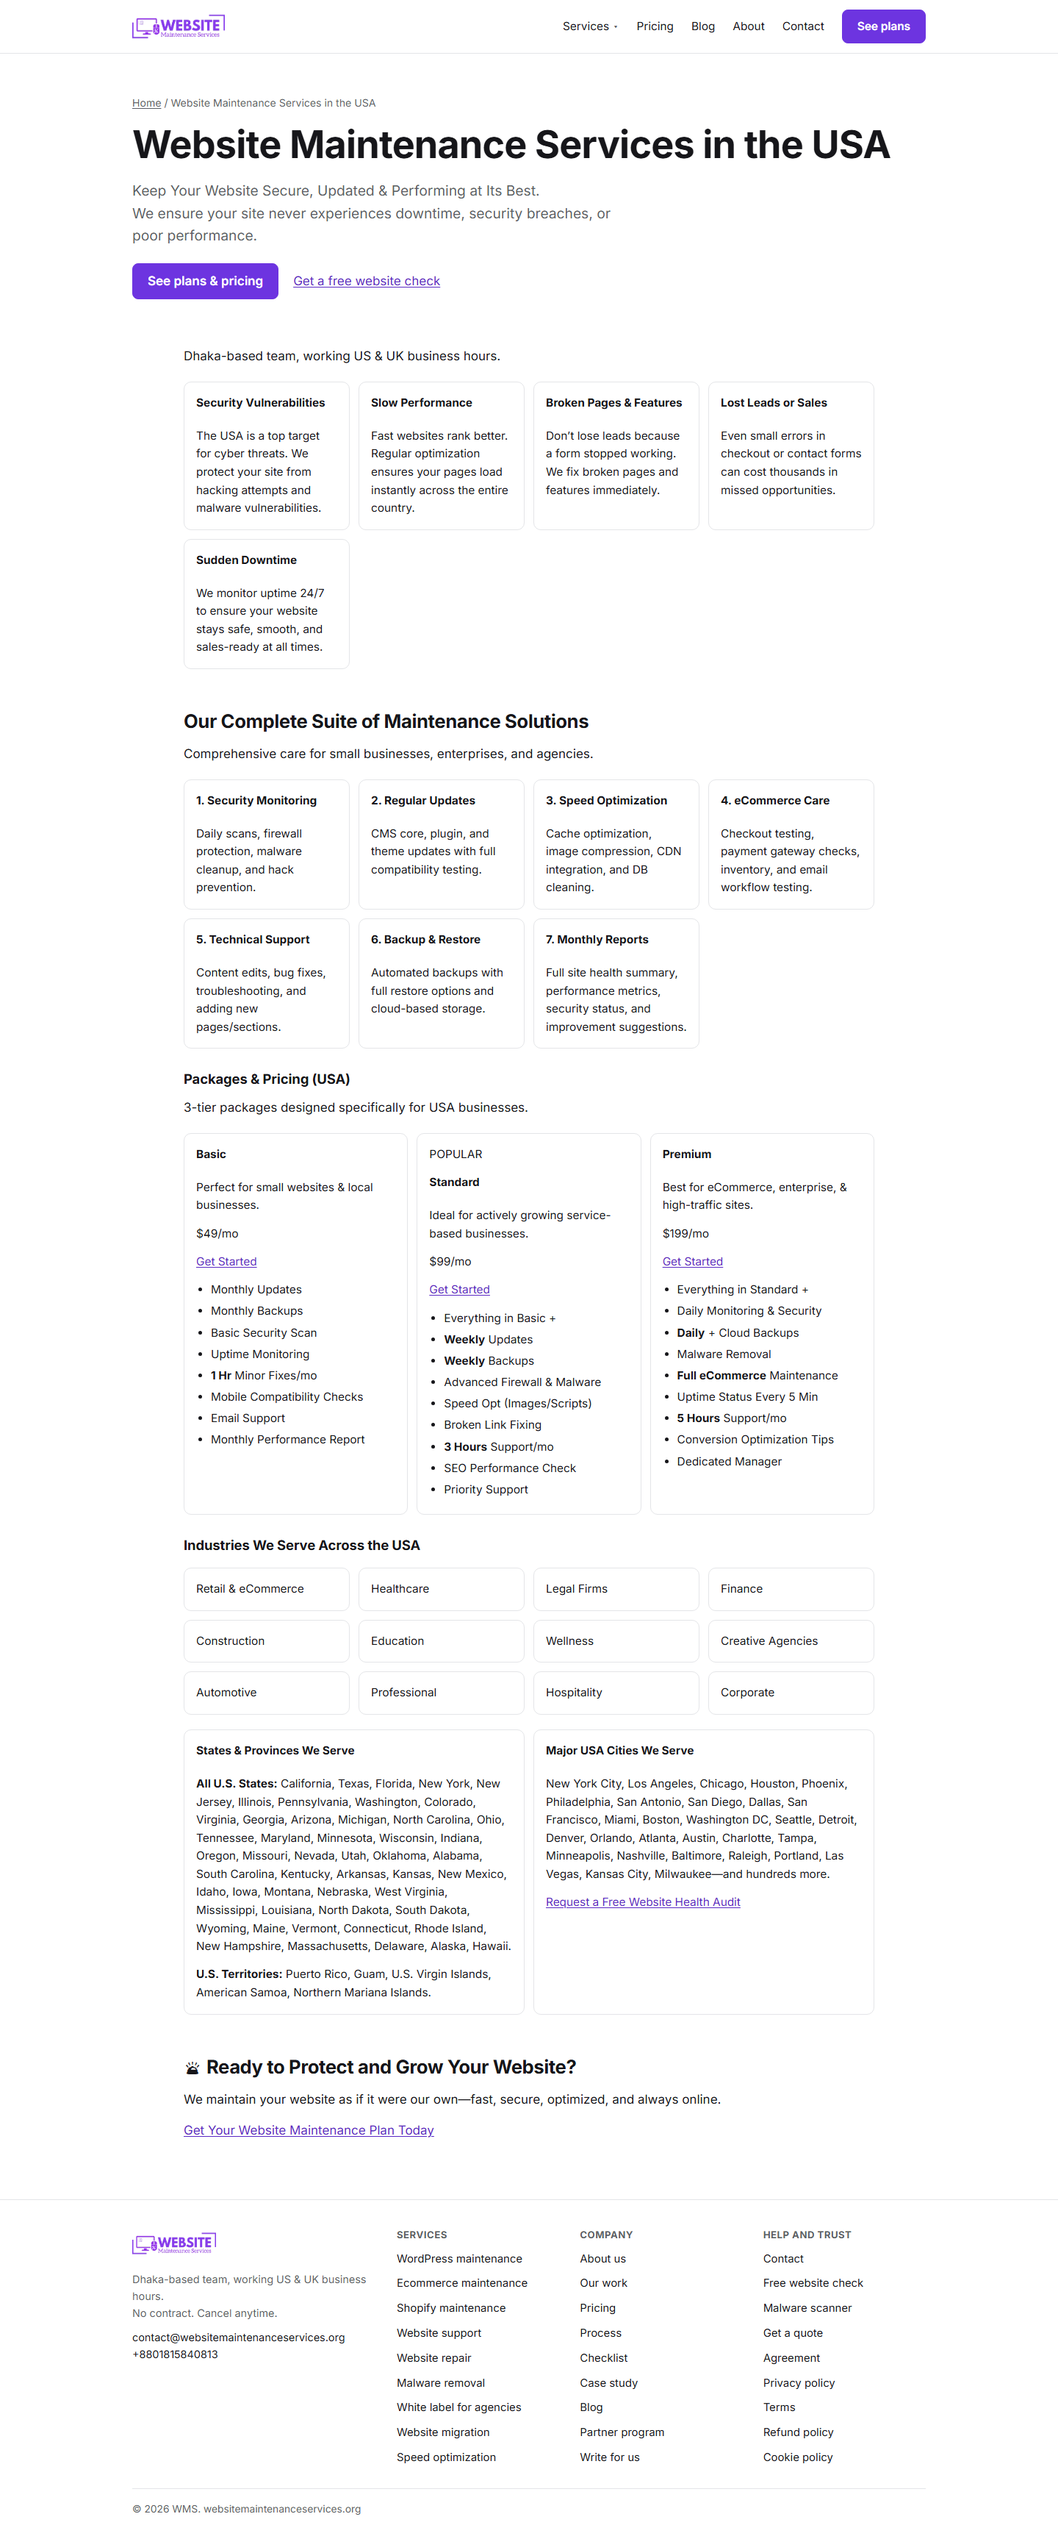
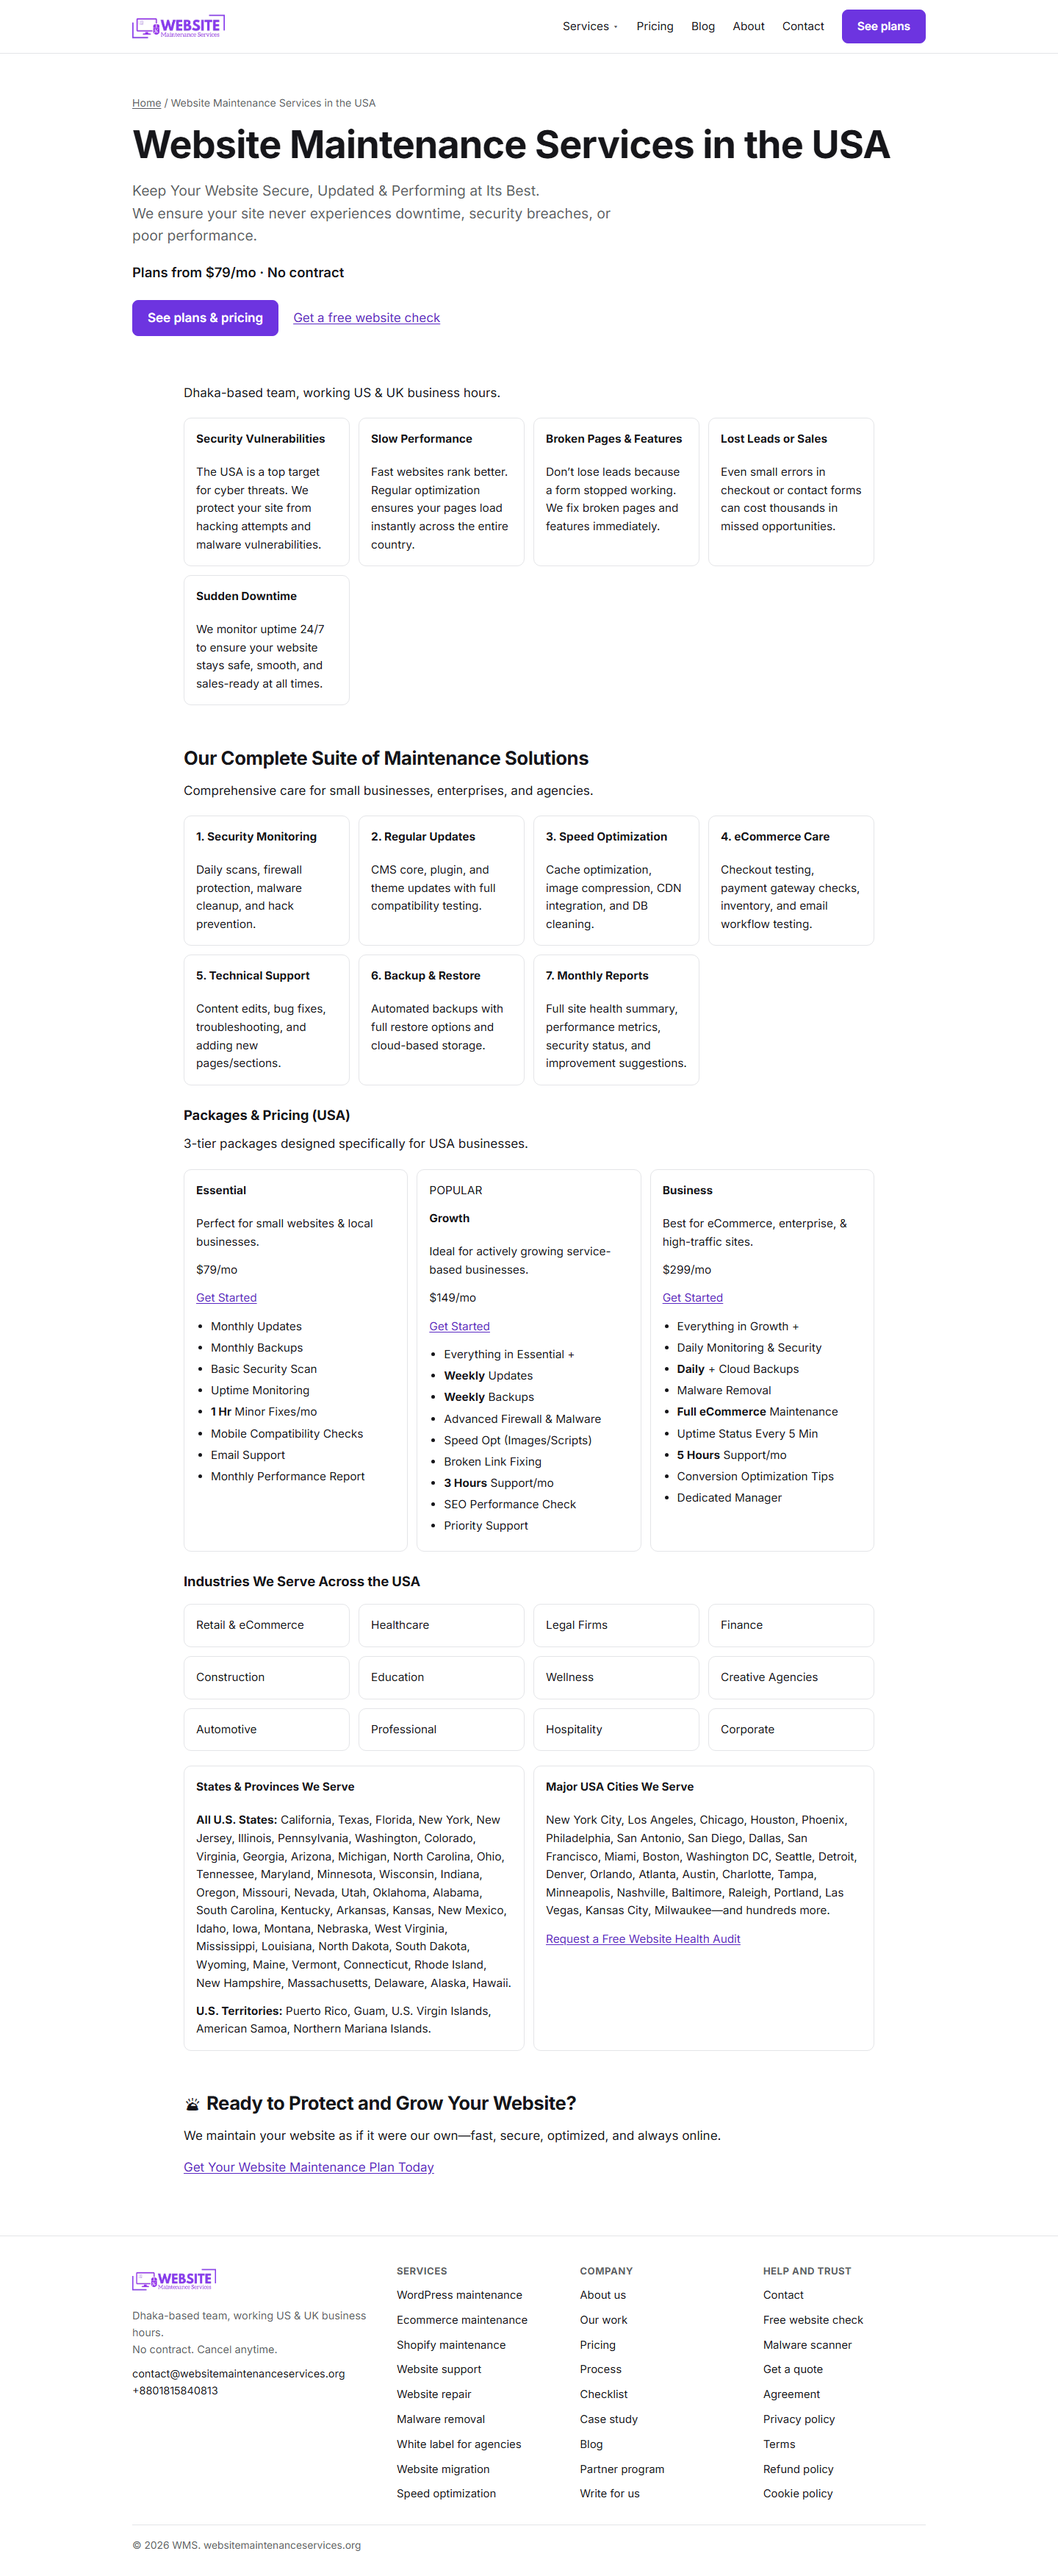
USA page: master prices and plan names; drop dollar price line from UK, France, Ireland

diff --git a/STATUS.md b/STATUS.md
@@ -21,7 +21,7 @@ Rules live in `CLAUDE.md` (wins on conflict), `SEO-GUARDRAILS.md`, `CMS-REQUIREM
 | 7 Launch, 8 Monitoring | Not started | |
 
 **Not done in Phase 4 yet:**
-- Master prices are on the homepage, pricing, WordPress packages, Netherlands, Spain and Switzerland. 122 lines on 10 pages still show old plan prices (`reports/old-price-lines.md`, run `node scripts/list-old-prices.mjs`). Ecommerce, Shopify, USA and the other sets wait for question 11. Launch stays blocked until these are settled.
+- Master prices are on the homepage, pricing, WordPress packages, USA, Netherlands, Spain and Switzerland. 122 lines on 10 pages still show old plan prices (`reports/old-price-lines.md`, run `node scripts/list-old-prices.mjs`). Ecommerce, Shopify, USA and the other sets wait for question 11. Launch stays blocked until these are settled.
 - Moving unique content from the 4 merged pages to their targets.
 - Keyword edits inside page bodies, and expanding the homepage and packages page.
 - Rearranging service pages (problem, included, price, FAQ): first screen is new, the rest keeps its old order.
@@ -84,7 +84,7 @@ Rules live in `CLAUDE.md` (wins on conflict), `SEO-GUARDRAILS.md`, `CMS-REQUIREM
 8. **Items outside section A** (`reports/claims-open-items.md`): result figures, repair stats, agency case cards, certifications, platform badges, free hosting and free month offers, people and claims inside images.
 9. **Case study:** keep after confirming the facts, or rewrite or noindex.
 10. **FAQ market ranges:** change to $79–$149 and $79–$299, or keep as they are?
-11. **Other price sets** (`reports/faq-schema-sync.md`, `reports/old-price-lines.md`): Ecommerce, Shopify, update services, white-label post, repair $99–$899, backup, the USA page (Basic $49, Standard $99, Premium $199), and the plan prices inside 9 blog posts. Also plan features that no longer match Growth and Business, and the WP Starter, WP Growth and WP Premium names on the WordPress page, which now carry master prices.
+11. **Other price sets** (`reports/faq-schema-sync.md`, `reports/old-price-lines.md`): Ecommerce, Shopify, update services, white-label post, repair $99–$899, backup, UK (£39, £89, £179), France and Ireland (€49, €99, €199), and the plan prices inside 9 blog posts. Also plan features that no longer match Growth and Business, and the WP Starter, WP Growth and WP Premium names on the WordPress page, which now carry master prices.
 12. **Service package prices:** confirm each in `reports/service-package-prices.md`, including the migration and design conflicts and the four white-label points.
 13. **Semrush "wordpress maintenance" seed export:** optional, could change the WordPress primary.
 14. **Git identity:** commits use the name "WMS" and the owner's email. Change before pushing if wanted.

diff --git a/reports/old-price-lines.md b/reports/old-price-lines.md
@@ -1,9 +1,18 @@
 # Old plan prices still in page bodies
 
-122 lines on 10 pages.
+131 lines on 13 pages.
 
 | Page | Line | Text |
 |---|---|---|
+| website-maintenance-services-for-france | 144 | €49/mo |
+| website-maintenance-services-for-france | 167 | €99/mo |
+| website-maintenance-services-for-france | 190 | €199/mo |
+| website-maintenance-services-for-ireland | 144 | €49/mo |
+| website-maintenance-services-for-ireland | 167 | €99/mo |
+| website-maintenance-services-for-ireland | 190 | €199/mo |
+| website-maintenance-services-for-uk | 137 | £39/mo |
+| website-maintenance-services-for-uk | 160 | £89/mo |
+| website-maintenance-services-for-uk | 182 | £179/mo |
 | wordpress-website-maintenance-packages | 16 | Choose from three flexible WordPress maintenance plans — WP Starter, WP Growth, and WP Premium — starting at $79/month, with 2 months free when you pay annually. Every plan includes core updates, security monitoring, bac |
 | wordpress-website-maintenance-packages | 116 | Our WordPress maintenance plans scale with your business. The **WP Starter** plan ($79/mo) suits blogs and small sites, the **WP Growth** plan ($149/mo) is our most popular WordPress monthly maintenance package for growi |
 | wordpress-website-maintenance-packages | 184 | ### WP Starter |

diff --git a/src/content/pages/website-maintenance-services-for-usa.md b/src/content/pages/website-maintenance-services-for-usa.md
@@ -130,13 +130,13 @@ Full site health summary, performance metrics, security status, and improvement 
 
 <div class="card">
 
-#### Basic
+#### Essential
 
 Perfect for small websites & local businesses.
 
-$49/mo
+$79/mo
 
-[Get Started](/get-a-free-quote/)
+[Get Started](/get-a-free-quote/#essential)
 
 -   Monthly Updates
 -   Monthly Backups
@@ -153,15 +153,15 @@ $49/mo
 
 POPULAR
 
-#### Standard
+#### Growth
 
 Ideal for actively growing service-based businesses.
 
-$99/mo
+$149/mo
 
-[Get Started](/get-a-free-quote/)
+[Get Started](/get-a-free-quote/#growth)
 
--   Everything in Basic +
+-   Everything in Essential +
 -   **Weekly** Updates
 -   **Weekly** Backups
 -   Advanced Firewall & Malware
@@ -175,15 +175,15 @@ $99/mo
 
 <div class="card">
 
-#### Premium
+#### Business
 
 Best for eCommerce, enterprise, & high-traffic sites.
 
-$199/mo
+$299/mo
 
-[Get Started](/get-a-free-quote/)
+[Get Started](/get-a-free-quote/#business)
 
--   Everything in Standard +
+-   Everything in Growth +
 -   Daily Monitoring & Security
 -   **Daily** + Cloud Backups
 -   Malware Removal

diff --git a/CHANGELOG.md b/CHANGELOG.md
@@ -99,3 +99,7 @@
 - Text pieces inside links no longer run together.
 - Added scripts/test-browser-features.mjs: runs the quote hash and the scanner in headless Chrome. It caught the scanner crashing on a missing results list before commit.
 - The forms check found 9 service-page forms not connected. All 12 forms now post to Netlify Forms with unique names.
+
+## USA prices (2026-11-01, owner's decision)
+- USA page: Basic $49, Standard $99, Premium $199 became Essential $79, Growth $149, Business $299. Plan buttons use the hash links. Card feature lists are unchanged.
+- Corrected a Batch 3 mistake: "Plans from $79/mo" was on the UK, France and Ireland first screens, whose cards show £ and € prices. Removed until the owner decides those prices.
